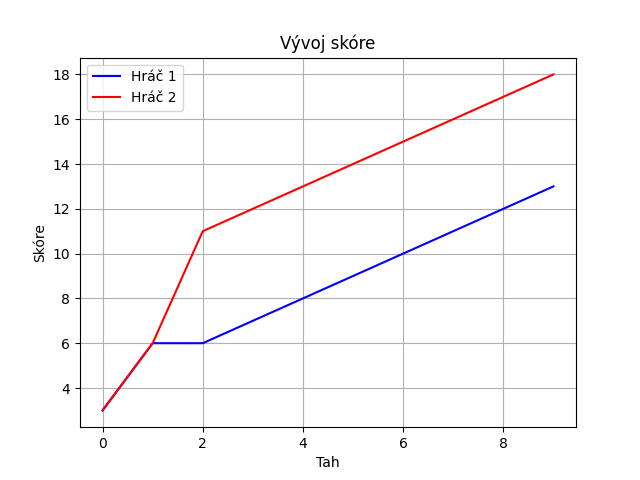
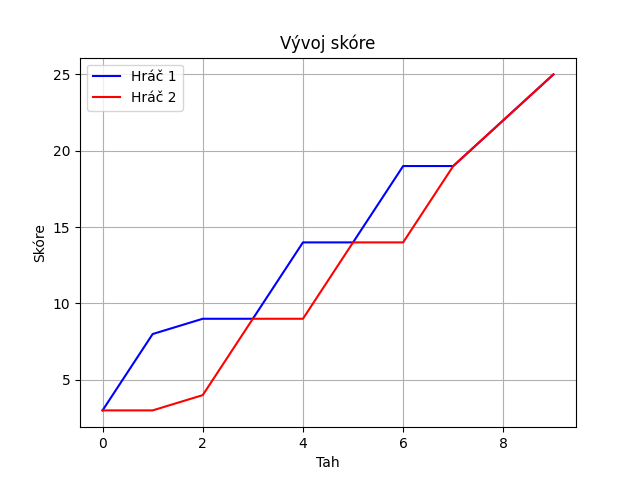
modified:   GTO.py 	modified:   static/graf.png

diff --git a/GTO.py b/GTO.py
@@ -48,13 +48,17 @@ def tah():
     tah = session['tah']
     volba_2 = session['volba_2']
 
+
     if tah > 0:
-        if random.random() < 0.1:
-            volba_2 = 'Z' if volba_2 == 'S' else 'S'
-        else:
-            volba_2 = volba_1
+        volba_2 = session['minula_volba_hrace_1']
+        if random.random() < 0.25:
+            volba_2 = "S" if volba_1 == "Z" else "Z"
+    else:
+        volba_2 = "S"
+
 
     session['volba_2'] = volba_2
+    session['minula_volba_hrace_1'] = volba_1
     s = session['zaznamy']
 
     if volba_1 == 'S' and volba_2 == 'S':
